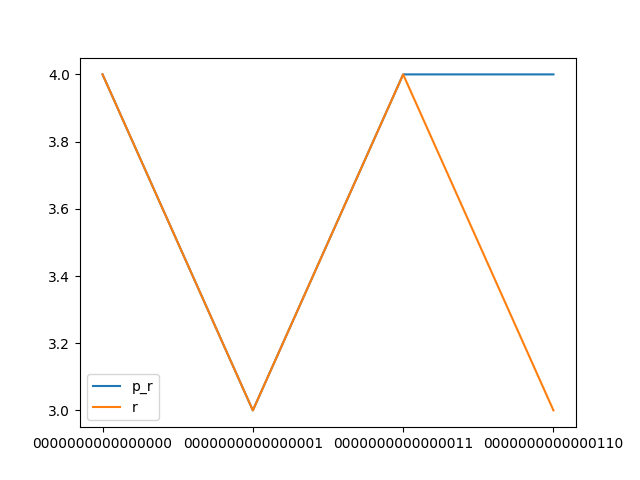
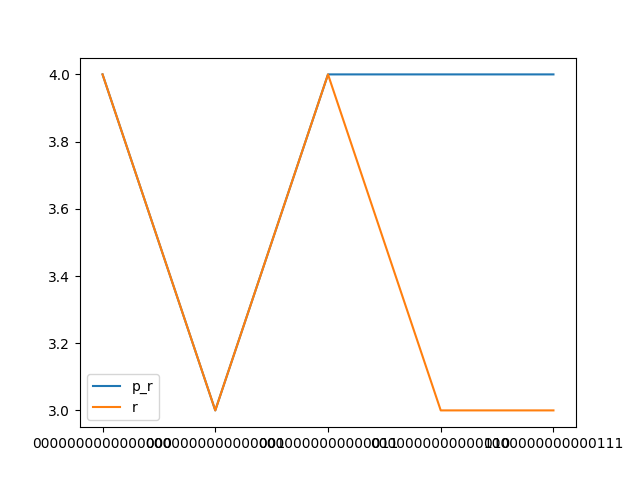
0x0007

diff --git a/benchmark.md b/benchmark.md
@@ -10,16 +10,18 @@
 
 [INFO] Synthesising NPN Class=3 TruthTable:0x0006 pexact:208 r=4 exact:224 r=3time=0.2912542502085368min 
 
+[INFO] Synthesising NPN Class=4 TruthTable:0x0007 pexact:182 r=4 exact:192 r=3time=0.3744376460711161min 
+
 ```mermaid
 xychart-beta
     title "Comparison powertwoexact twoexact"
-    x-axis ['0000000000000000', '0000000000000001', '0000000000000011', '0000000000000110']
+    x-axis ['0000000000000000', '0000000000000001', '0000000000000011', '0000000000000110', '0000000000000111']
     y-axis "Switching Activity" 0-->312
-    line [96, 152, 182, 208]
-    line [192, 152, 312, 224]
-    line [159.5, 159.5, 159.5, 159.5]
-    line [220.0, 220.0, 220.0, 220.0]
-    bar [80, 60, 80, 80]
-    bar [80, 60, 80, 60]
+    line [96, 152, 182, 208, 182]
+    line [192, 152, 312, 224, 192]
+    line [164.0, 164.0, 164.0, 164.0, 164.0]
+    line [214.4, 214.4, 214.4, 214.4, 214.4]
+    bar [80, 60, 80, 80, 80]
+    bar [80, 60, 80, 60, 60]
 ```
 
